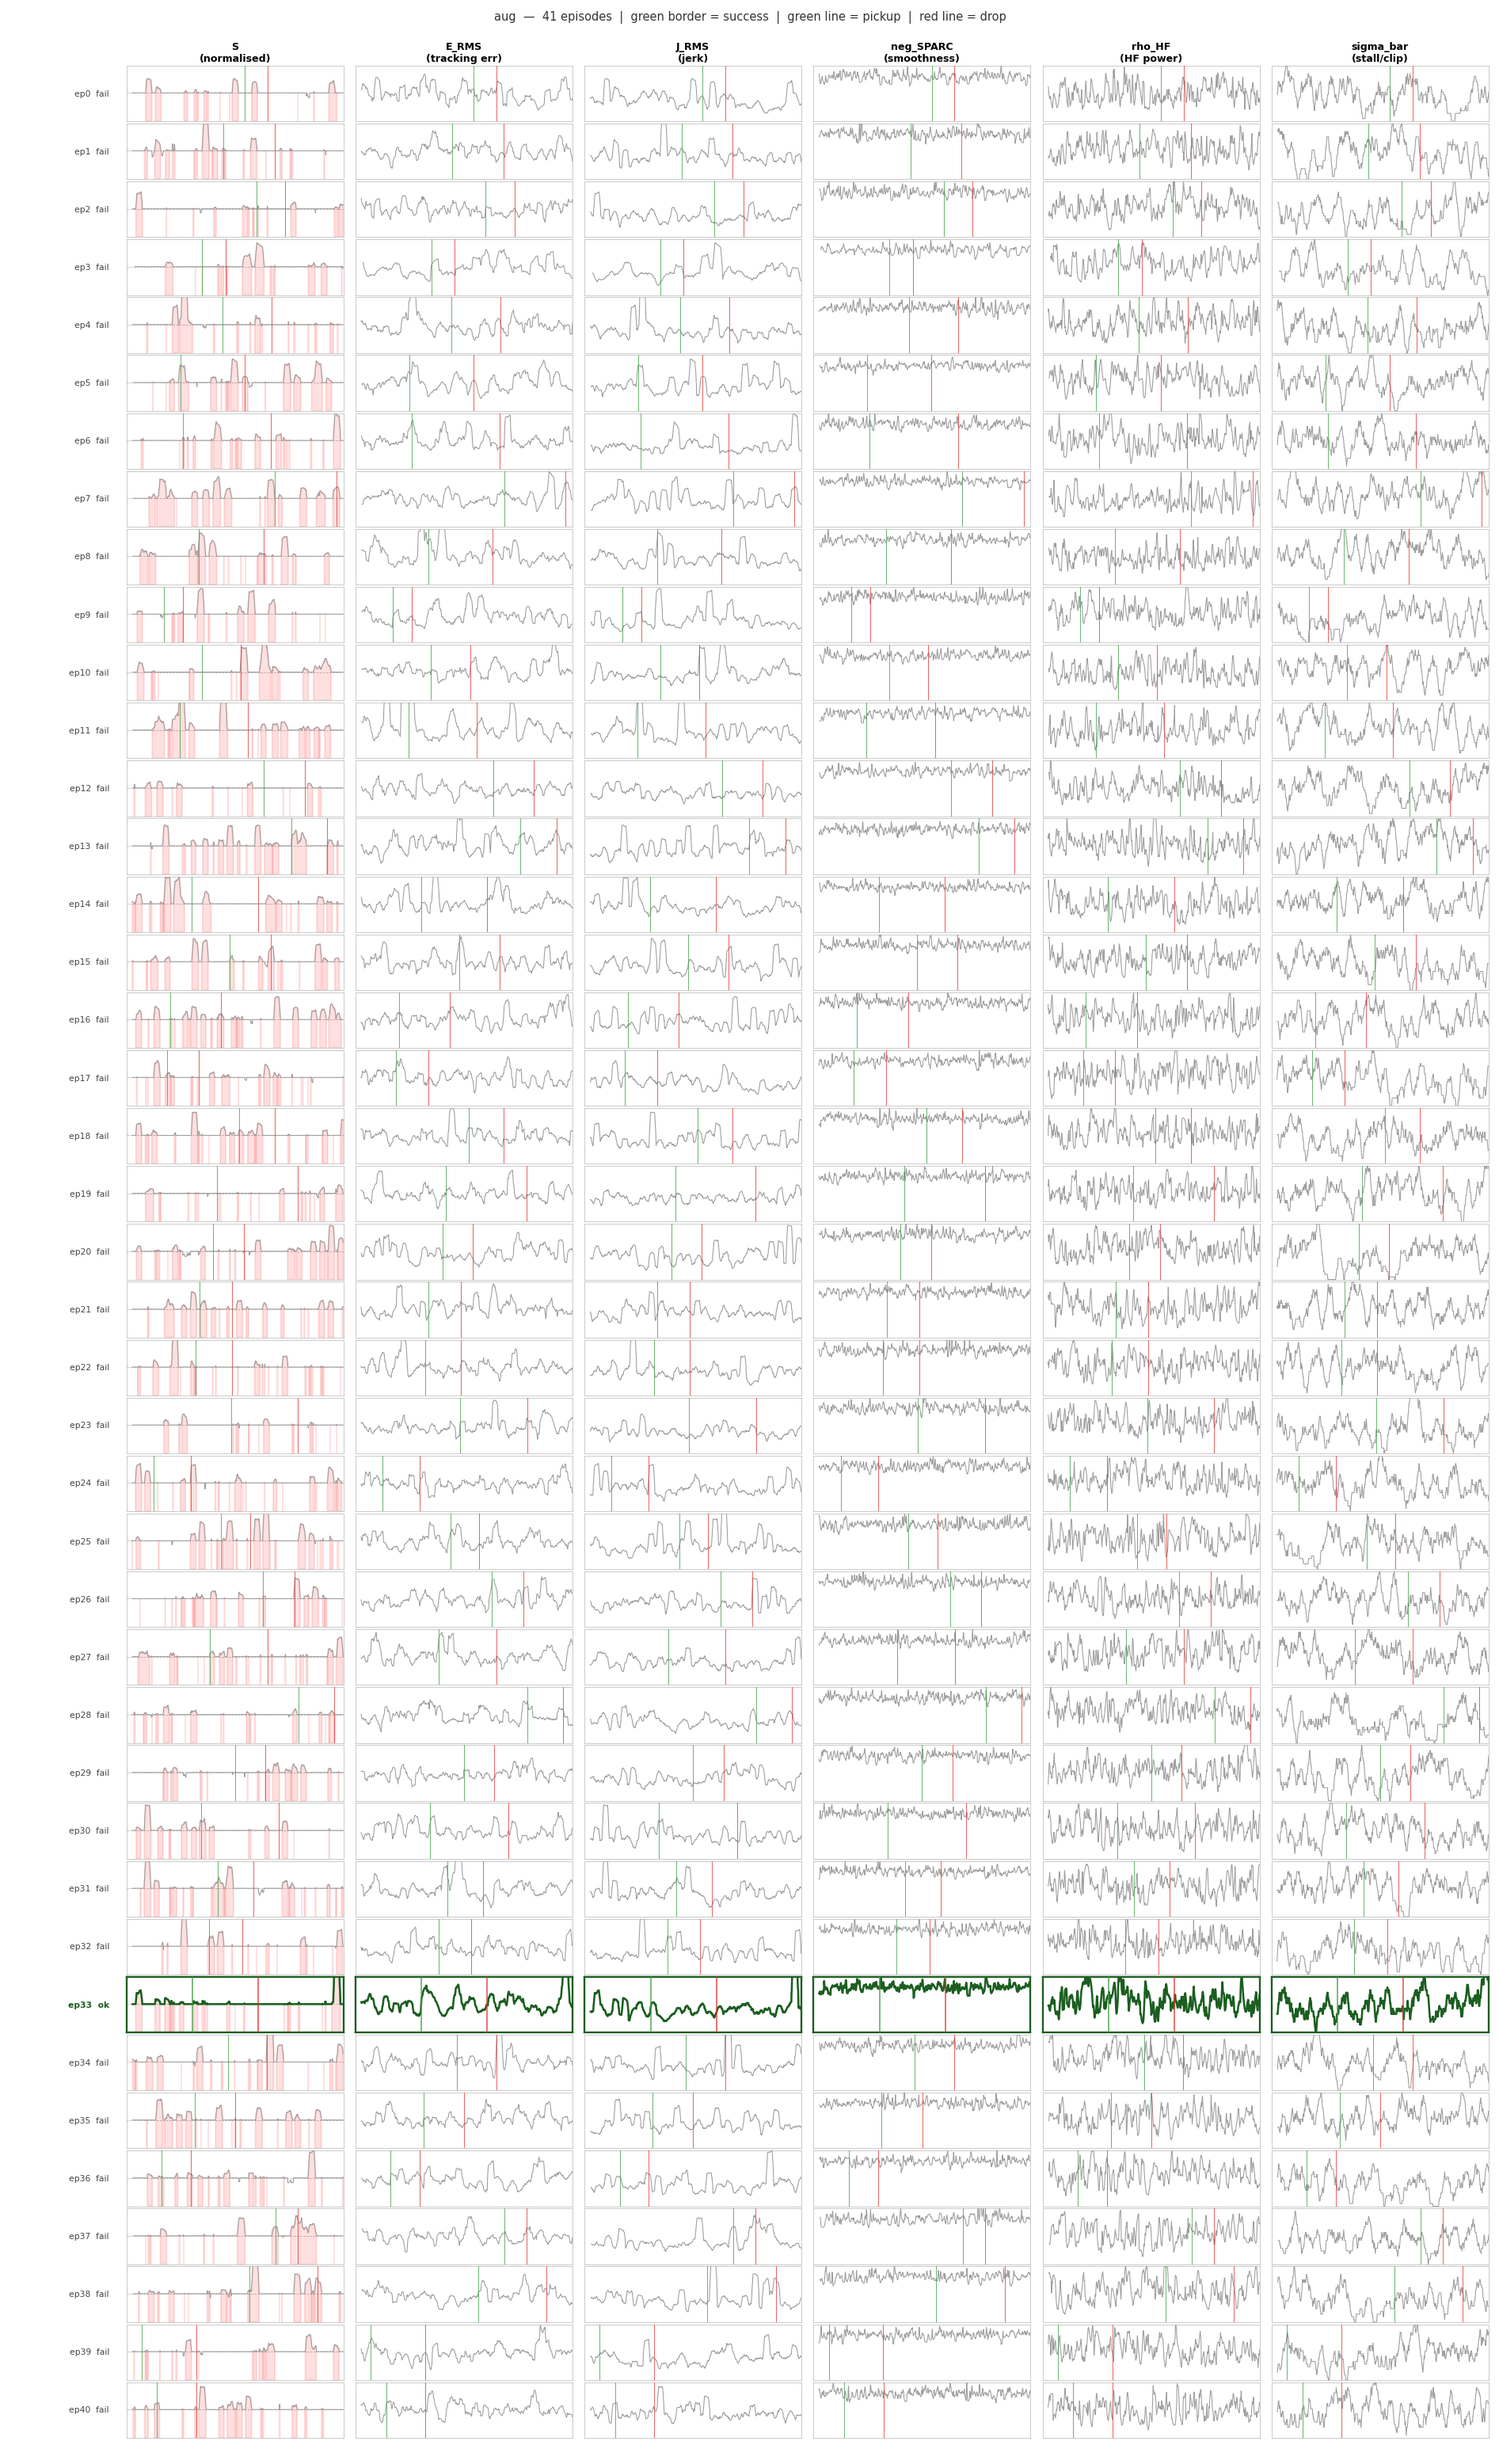
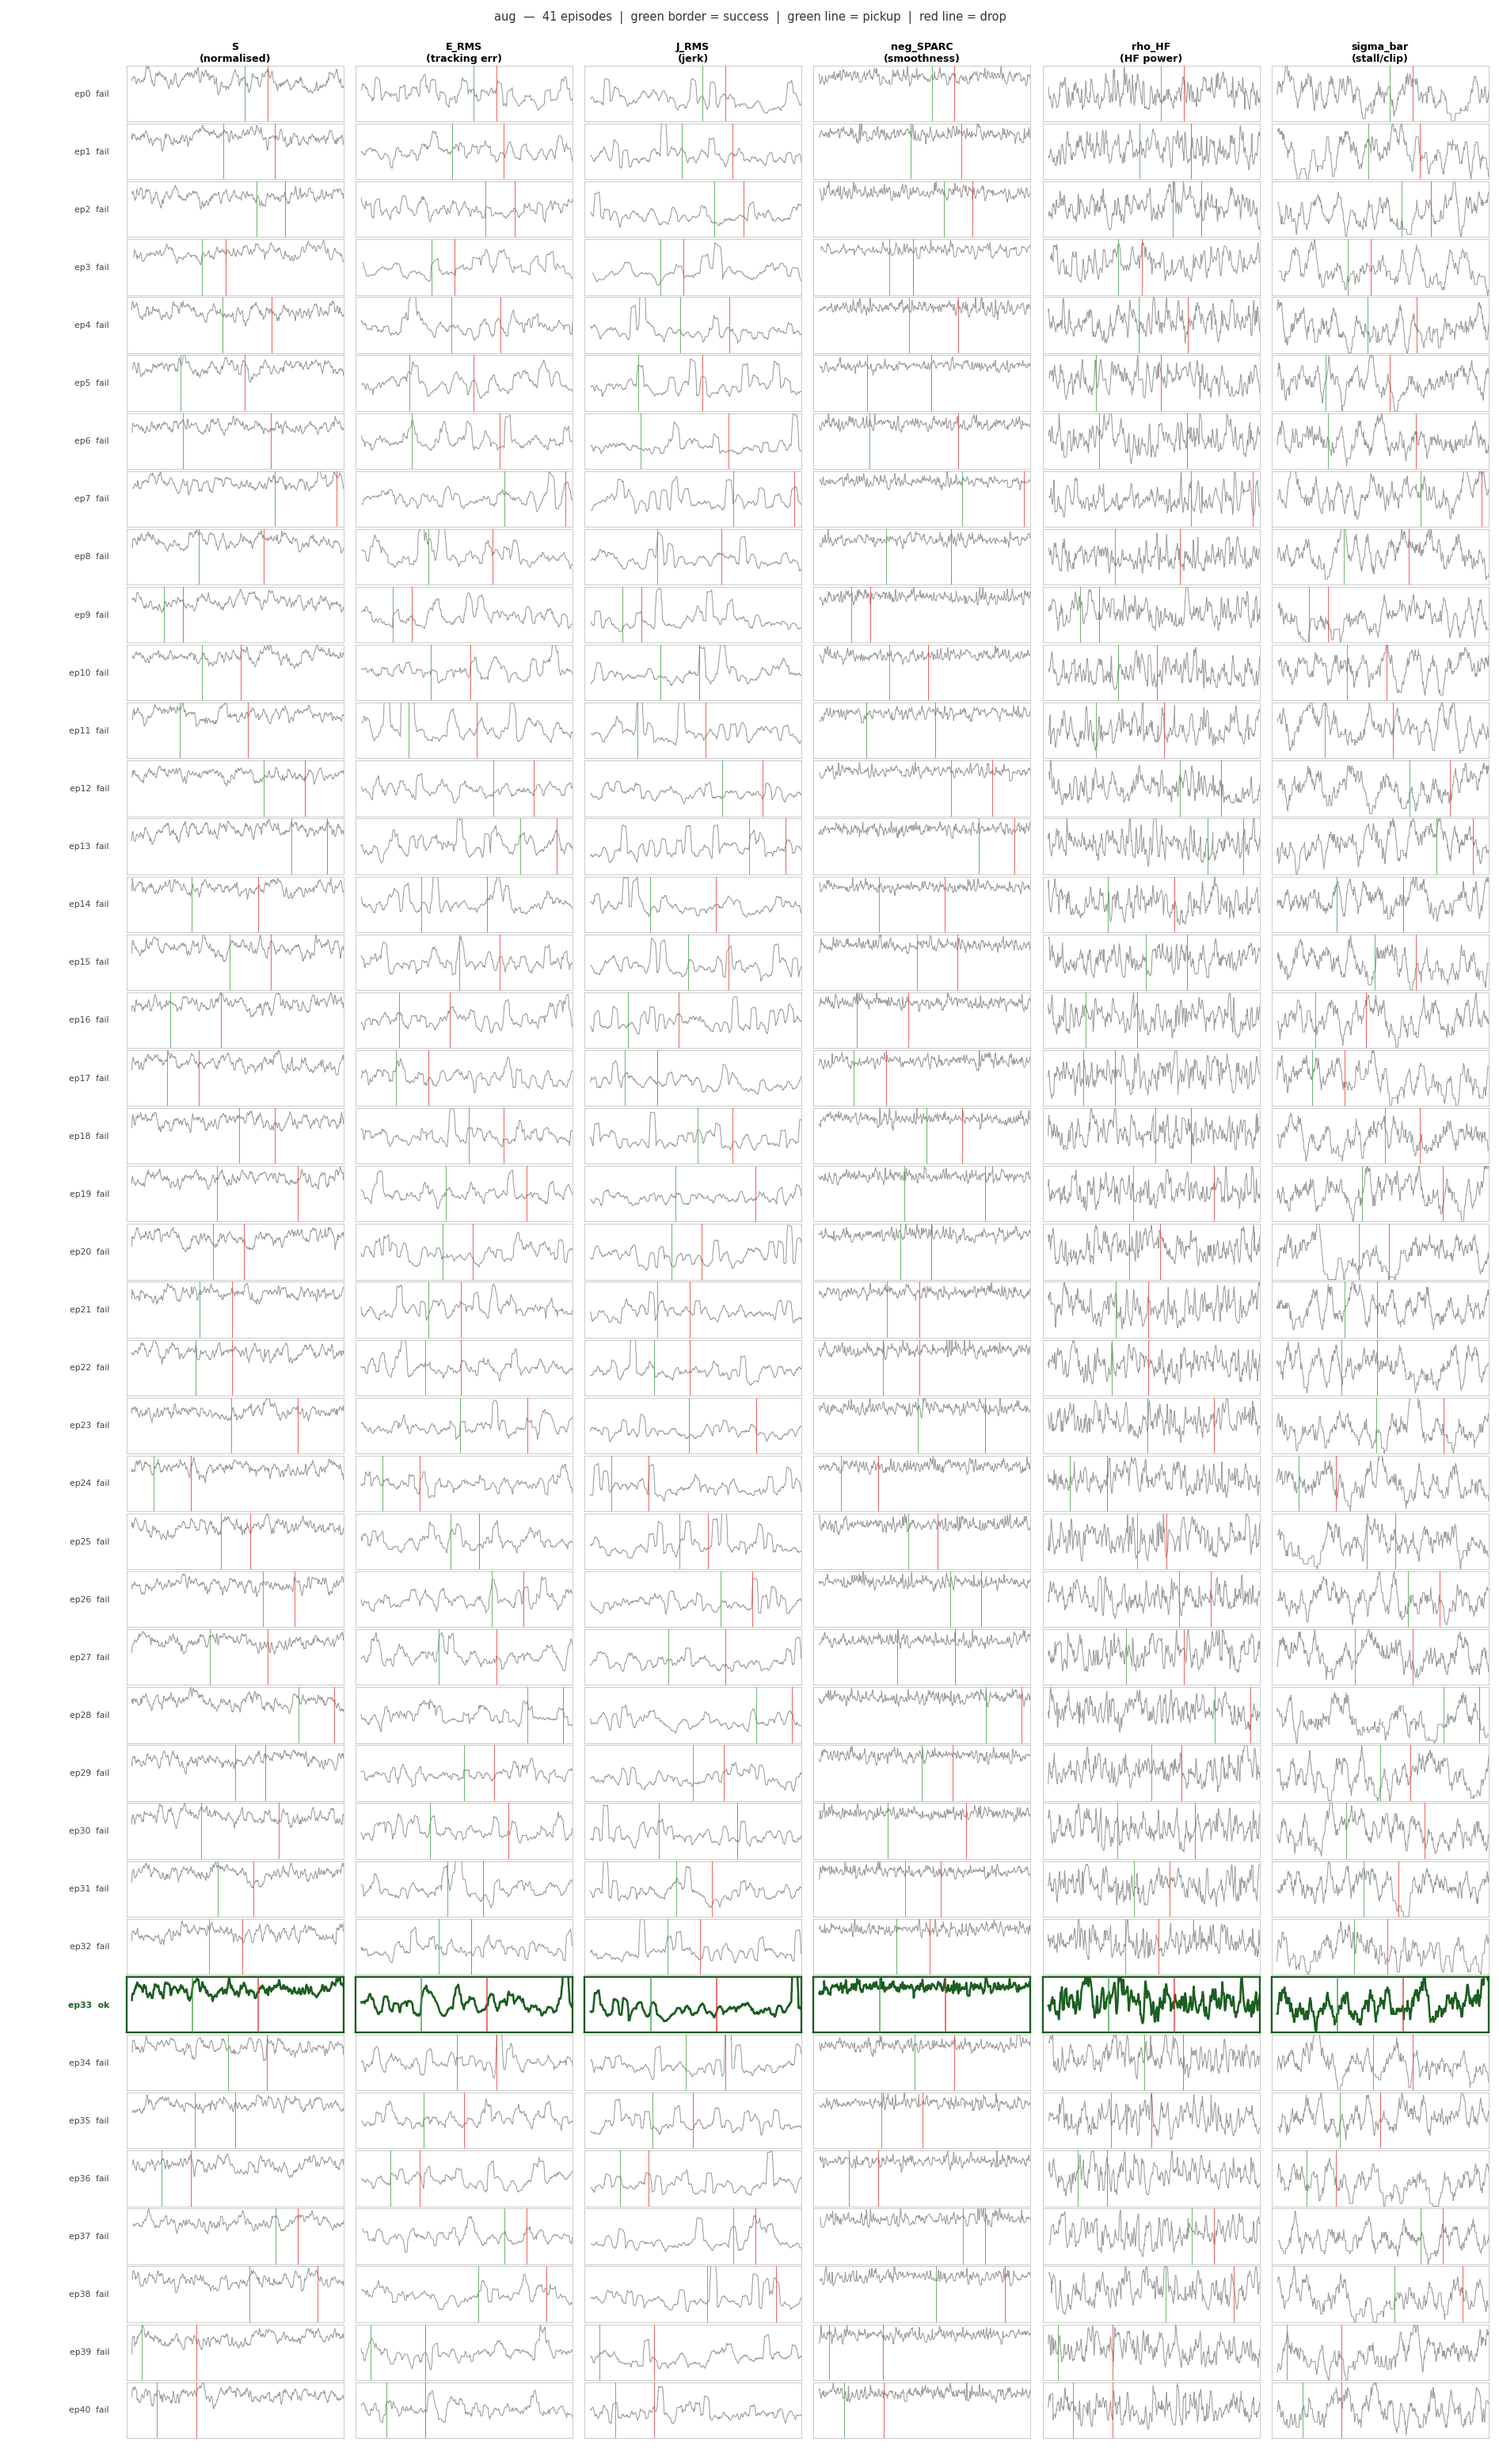
Recalculate S with corrected mean+clip normalization; regenerate outputs
- suppress nanmean empty-slice RuntimeWarning via warnings.catch_warnings
- rerun make_model_eval_table.py: S values now in [0,1], mean-aggregated
- rerun plot_episode_stability.py --grid-only: grid PNGs reflect correct S

Updated S ranges (phase-split combined): 0.32-0.85, mean 0.55
vs old max-based: 0.69-3.34, mean 0.99

Changed region(s): [[0.0935, 0.031, 0.2493, 1.0]]

diff --git a/struggle_monitor.py b/struggle_monitor.py
@@ -241,15 +241,18 @@ def compute_struggle_score_series(
 
     # NaN in any channel at time t means the metric hadn't warmed up yet;
     # preserve those NaNs so the caller can skip warmup windows.
-    # Suppress the "All-NaN slice" warning — it is expected for warmup frames.
+    # Suppress the "All-NaN slice" warning — expected for warmup frames where
+    # every channel is still NaN; numpy raises it even inside errstate on some
+    # builds, so we also filter at the warnings module level.
     if T == 0:
         return np.array([])
-    with np.errstate(all="ignore"):
+    import warnings
+    with warnings.catch_warnings(), np.errstate(all="ignore"):
+        warnings.simplefilter("ignore", RuntimeWarning)
         if score_mode == "mean":
             return np.nanmean(score_matrix, axis=0)
         if score_mode == "median":
             return np.nanmedian(score_matrix, axis=0)
-        # "max" (default) and "mode" fallback
         return np.nanmax(score_matrix, axis=0)
 
 
